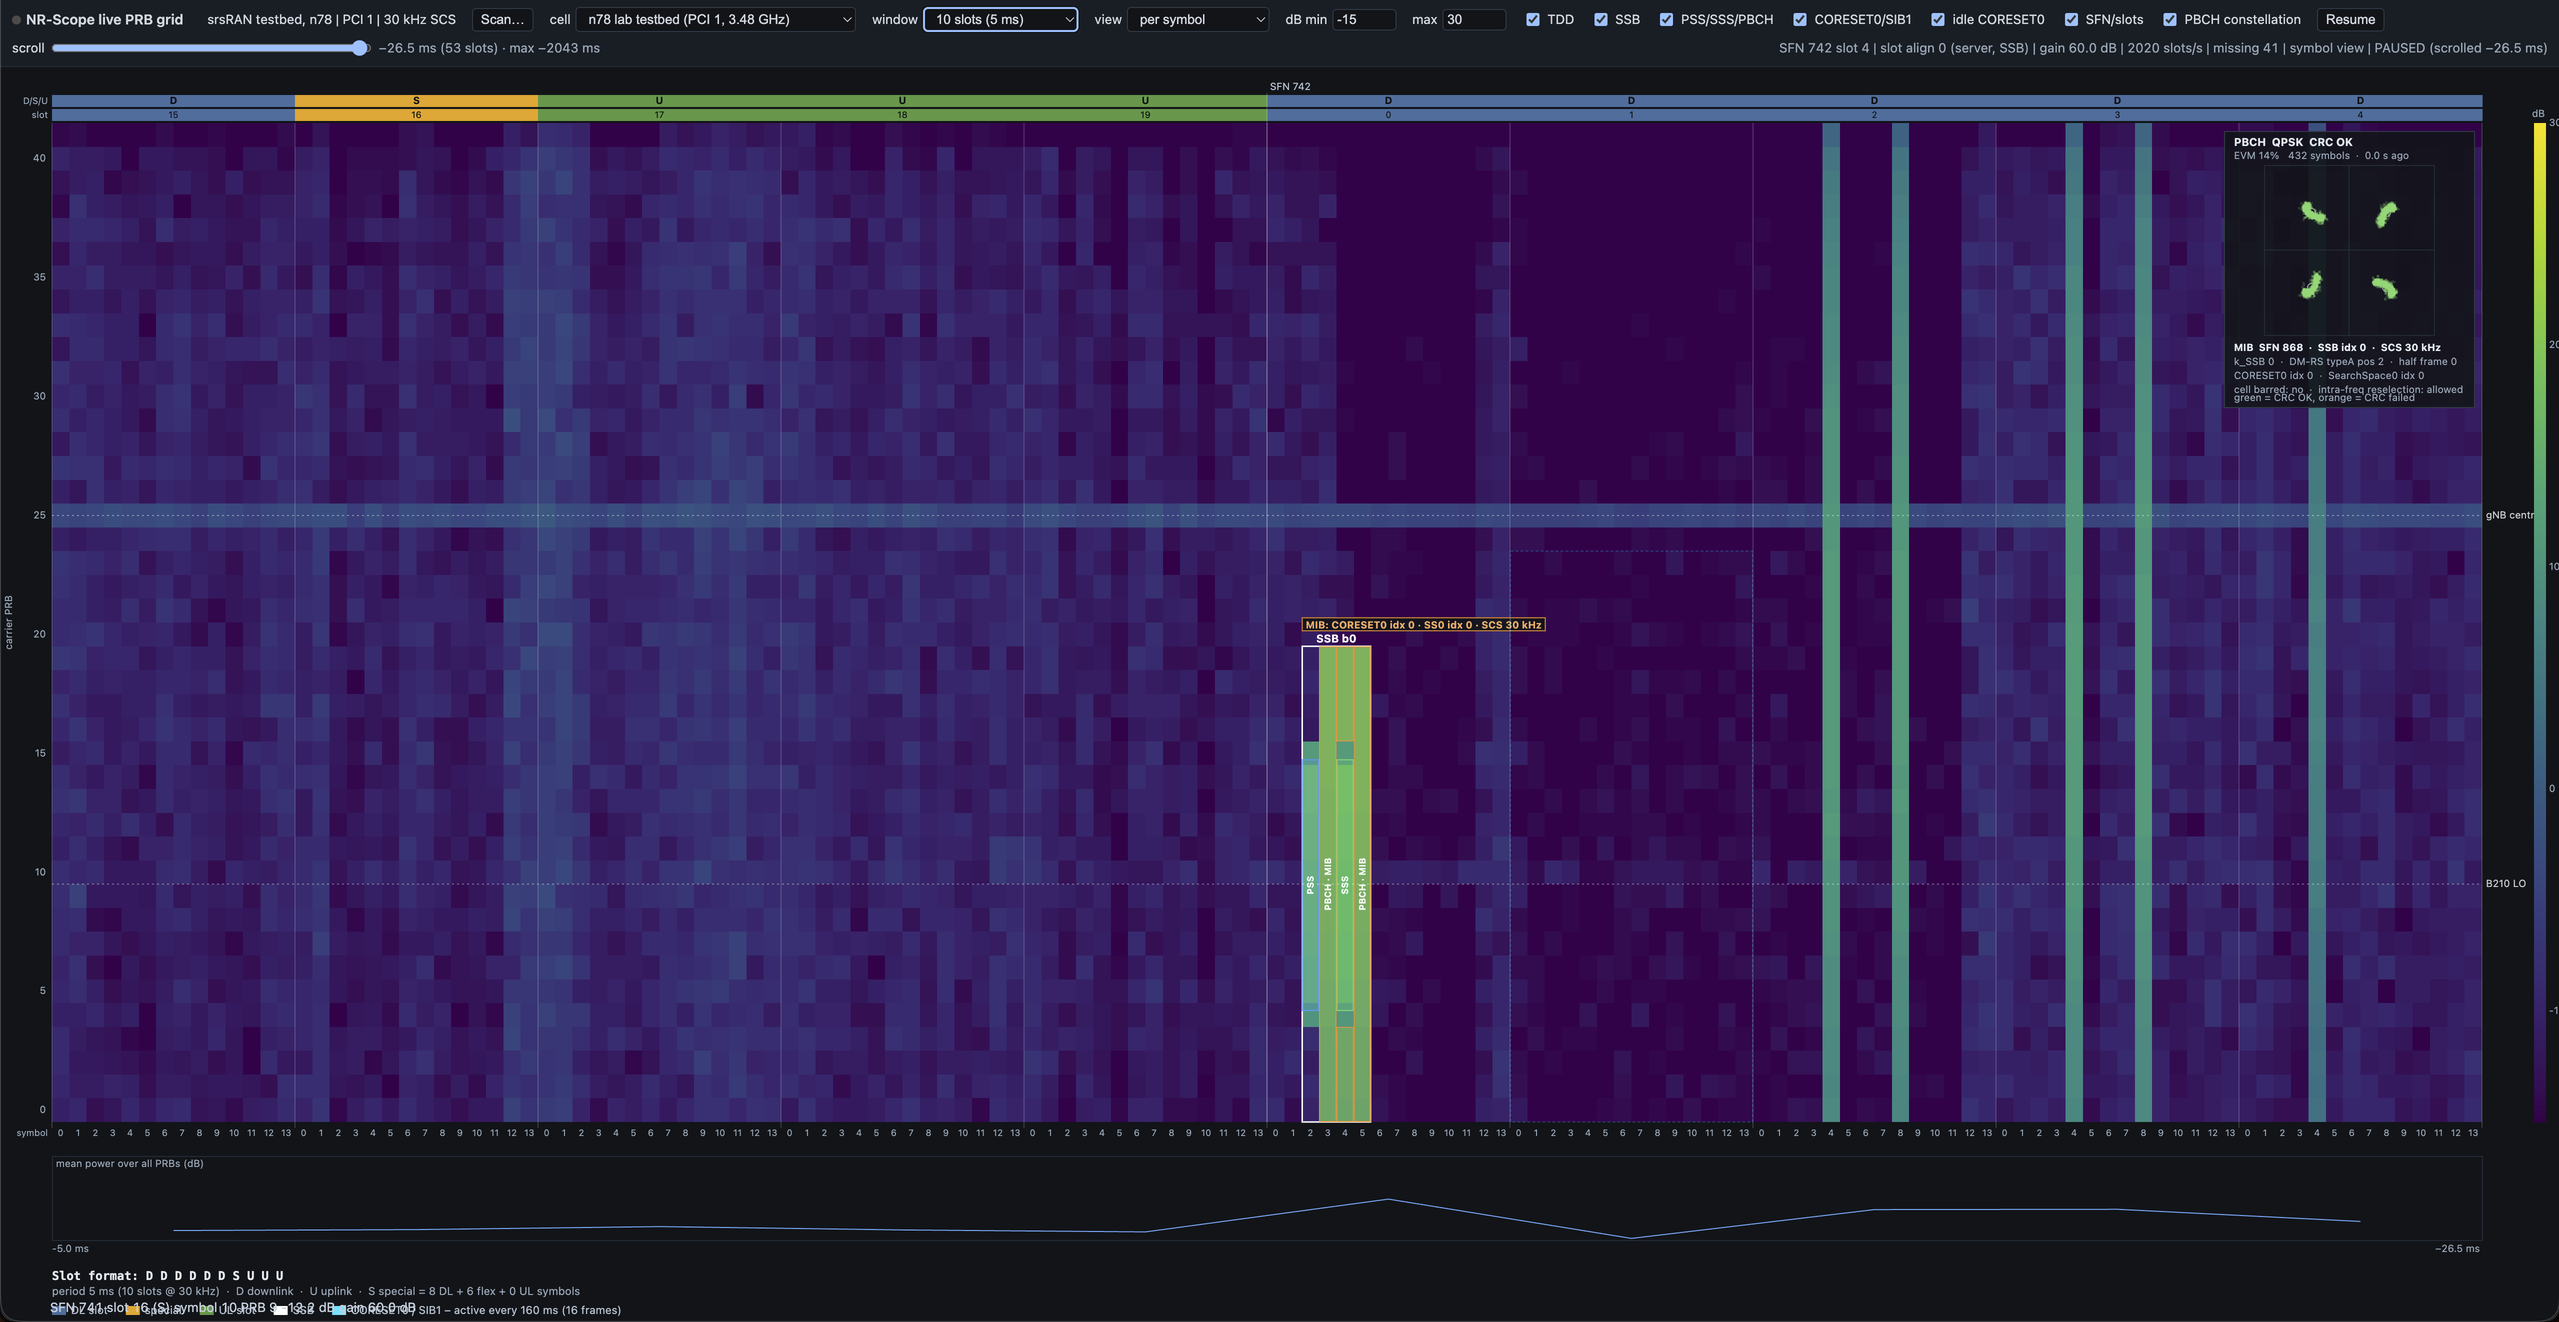
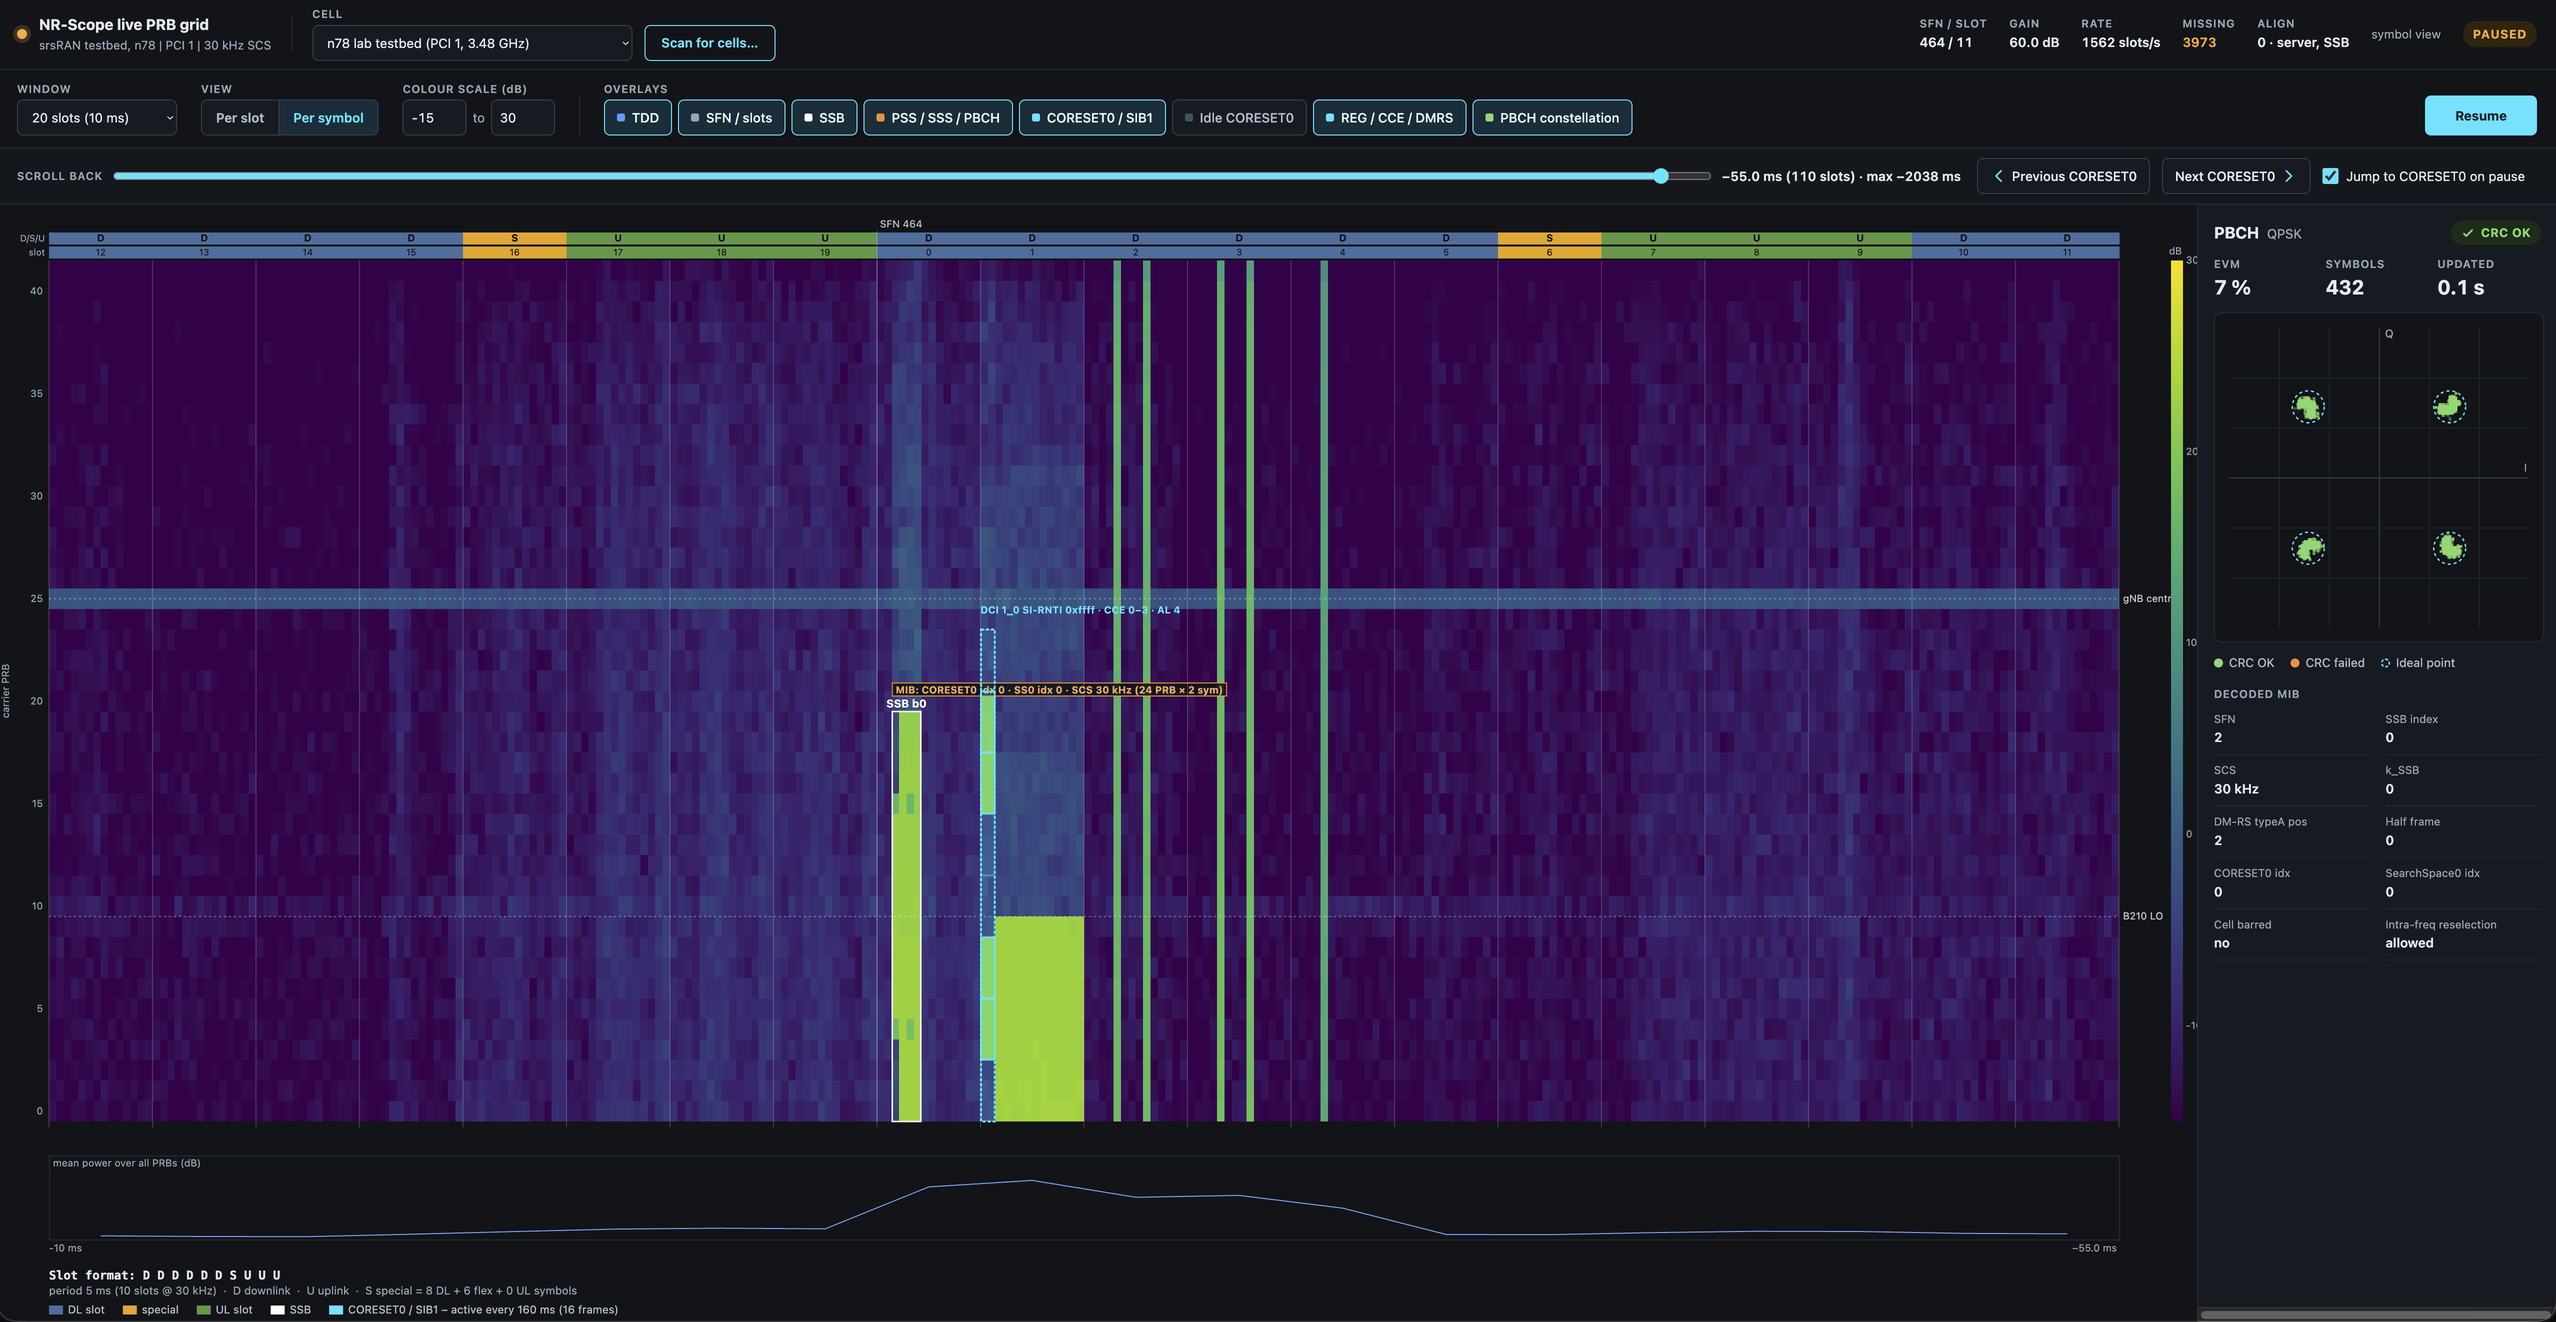
README: new viewer screenshot (grouped toolbar, constellation docked right) and matching text
Claude-Session: https://claude.ai/code/session_011HHMZyXFLoT7fRAWc2V1VA

diff --git a/README.md b/README.md
@@ -13,12 +13,12 @@ USRP B210 ──► nrscope ───────────────► Zer
 
 Tested on a Raspberry Pi 5 host with a USRP B210 against an N78 lab gNB (and a commercial n41 cell, config included).
 
-![The viewer on the n78 lab testbed: 10-slot window, per-symbol view, paused and scrolled back](docs/viewer_n78_testbed.png)
+![The viewer on the n78 lab testbed: 20-slot window, per-symbol view, paused and scrolled back, constellation docked on the right](docs/viewer_n78_testbed.png)
 
-*The viewer on the n78 lab testbed (PCI 1, 30 kHz SCS), per-symbol view, 10 slots (5 ms), paused and scrolled back 26.5 ms.
-Top: the TDD slot strip (`D D D D D D S U U U`, 5 ms period) with slot numbers and the SFN. Grid: carrier PRBs against OFDM symbols, colour = power.
+*The viewer on the n78 lab testbed (PCI 1, 30 kHz SCS), per-symbol view, 20 slots (10 ms), paused and scrolled back 55 ms.
+Top: the toolbar in three rows (cell and live status; window, view, colour scale and overlay chips; the scroll-back row while paused). Under it: the TDD slot strip (`D D D D D D S U U U`, 5 ms period) with slot numbers and the SFN. Grid: carrier PRBs against OFDM symbols, colour = power.
 White box: SSB beam 0 with PSS, PBCH+MIB, SSS, PBCH+MIB; the orange label is the CORESET0/SearchSpace0 index decoded from the MIB; the dashed box is the CORESET0 / SIB1 occasion (SIB1 here every 160 ms).
-Dotted lines: the B210 LO and the gNB centre. Top right: the equalised PBCH QPSK constellation (CRC OK) with the decoded MIB. Bottom: mean power per symbol, the slot format and the legend.*
+Dotted lines: the B210 LO and the gNB centre. The cyan label above the CORESET0 box is the exact PDCCH from the decoder (DCI format, RNTI, CCE range, aggregation level). Right: the equalised PBCH QPSK constellation (CRC OK) with the decoded MIB, docked next to the grid (the "PBCH constellation" chip hides it). Bottom: mean power per symbol, the slot format and the legend.*
 
 ## Contents
 
@@ -69,7 +69,7 @@ Current testbed: gNB PCI 1, SSB at 3483.84 MHz (ARFCN 632256, GSCN 7835), 30 kHz
   visible. Use windows of 4 to 40 slots (4 slots = 2 ms). The SSB box follows the symbols that are actually loud in the SSB
   PRBs, because the SSB symbol position moves between runs (see the timing note below). The CORESET0 box uses
   `coreset0.sym_start` / `nsym` from the meta file, which are nominal and not yet verified on the testbed.
-* **PSS / SSS / PBCH (MIB) overlay** (checkbox "PSS/SSS/PBCH", per-symbol view only). Inside each SSB box the 4 SSB symbols are split into
+* **PSS / SSS / PBCH (MIB) overlay** (overlay chip "PSS / SSS / PBCH", per-symbol view only). Inside each SSB box the 4 SSB symbols are split into
   PSS (symbol 0, centre 127 subcarriers), PBCH (symbols 1 and 3 over all 20 PRBs, symbol 2 over the outer 4 PRBs on each side) and SSS
   (symbol 2, centre 127 subcarriers). The MIB is carried by the PBCH. Use a 4-slot window so the symbols are wide enough to read; the
   PBCH columns are labelled "PBCH · MIB" (rotated when narrow) and a callout above the first SSB box of each slot shows the decoded MIB
@@ -77,10 +77,10 @@ Current testbed: gNB PCI 1, SSB at 3483.84 MHz (ARFCN 632256, GSCN 7835), 30 kHz
   sub-boxes are drawn from the nominal SSB layout (they ignore `k_SSB`, so edges can be off by a few subcarriers).
 * **MIB fields.** Under the PBCH constellation the viewer prints the decoded MIB: SFN, SSB index, common SCS, `k_SSB`, DM-RS type-A position,
   CORESET0 and SearchSpace0 indices, cell-barred and intra-frequency-reselection flags. They are only updated from frames whose CRC is OK.
-* **Pause and scroll.** Pause freezes a copy of the 4096-slot history (about 2 s at 30 kHz SCS). While paused a *scroll* slider appears in the toolbar;
+* **Pause and scroll.** Pause freezes a copy of the 4096-slot history (about 2 s at 30 kHz SCS). While paused a *scroll back* row appears under the toolbar;
   the plot can also be dragged with the mouse, scrolled with the wheel (or a horizontal trackpad swipe) or moved with the arrow keys
-  (Shift = half a window, PageUp/PageDown = one window, Home/End = oldest/newest). The status line shows the offset from the frozen newest slot.
-  **Jump to CORESET0:** when you press Pause the view scrolls to the newest *active* CORESET0 / SIB1 occasion in the frozen history (untick *jump on pause* to stay at the newest slot).
+  (Shift = half a window, PageUp/PageDown = one window, Home/End = oldest/newest). The scroll-back readout shows the offset from the frozen newest slot.
+  **Jump to CORESET0:** when you press Pause the view scrolls to the newest *active* CORESET0 / SIB1 occasion in the frozen history (untick *Jump to CORESET0 on pause* to stay at the newest slot).
   The buttons **< CORESET0** and **CORESET0 >** (keys `[` and `]`) step to the previous or next active occasion, centred in the window; a short message shows which one of how many (e.g. 12 of 13). An occasion counts as active by the same test as the box colour (more than 8 dB above the neighbouring PRBs).
   On the testbed SIB1 comes every 160 ms, so the 2 s history holds about 13 occasions; on n41 (every 20 ms per beam) there are many more.
 * **PBCH constellation.** The equalised PBCH symbols (432 QPSK points per SSB) with the PBCH CRC result and an EVM computed on
@@ -308,7 +308,7 @@ Debug: `NRSCOPE_CFO_DBG=1` prints `SYNCDBG ... cfo_hz delay_us sfn sf` every 200
 
 The period is **measured, not assumed**. The viewer compares the CORESET0 PRBs with the PRBs next to them in the same slot; an occasion is
 *active* when the difference is above 8 dB. Active occasions are drawn as a bright, filled cyan box (with the excess in dB when there is room for
-the label), idle ones as a faint dashed box (checkbox "idle CORESET0" hides them), and the legend shows the median distance between active frames,
+the label), idle ones as a faint dashed box (the "Idle CORESET0" chip hides them), and the legend shows the median distance between active frames,
 for example `CORESET0 / SIB1 - active every 160 ms (16 frames)`. A cell that repeats SIB1 every 20 ms shows `every 20 ms (2 frames)` without any change.
 
 `scripts/cs0_interval.py [seconds]` does the same offline from the live stream and prints the interval histogram. On the lab testbed (CORESET0 idx 0,
